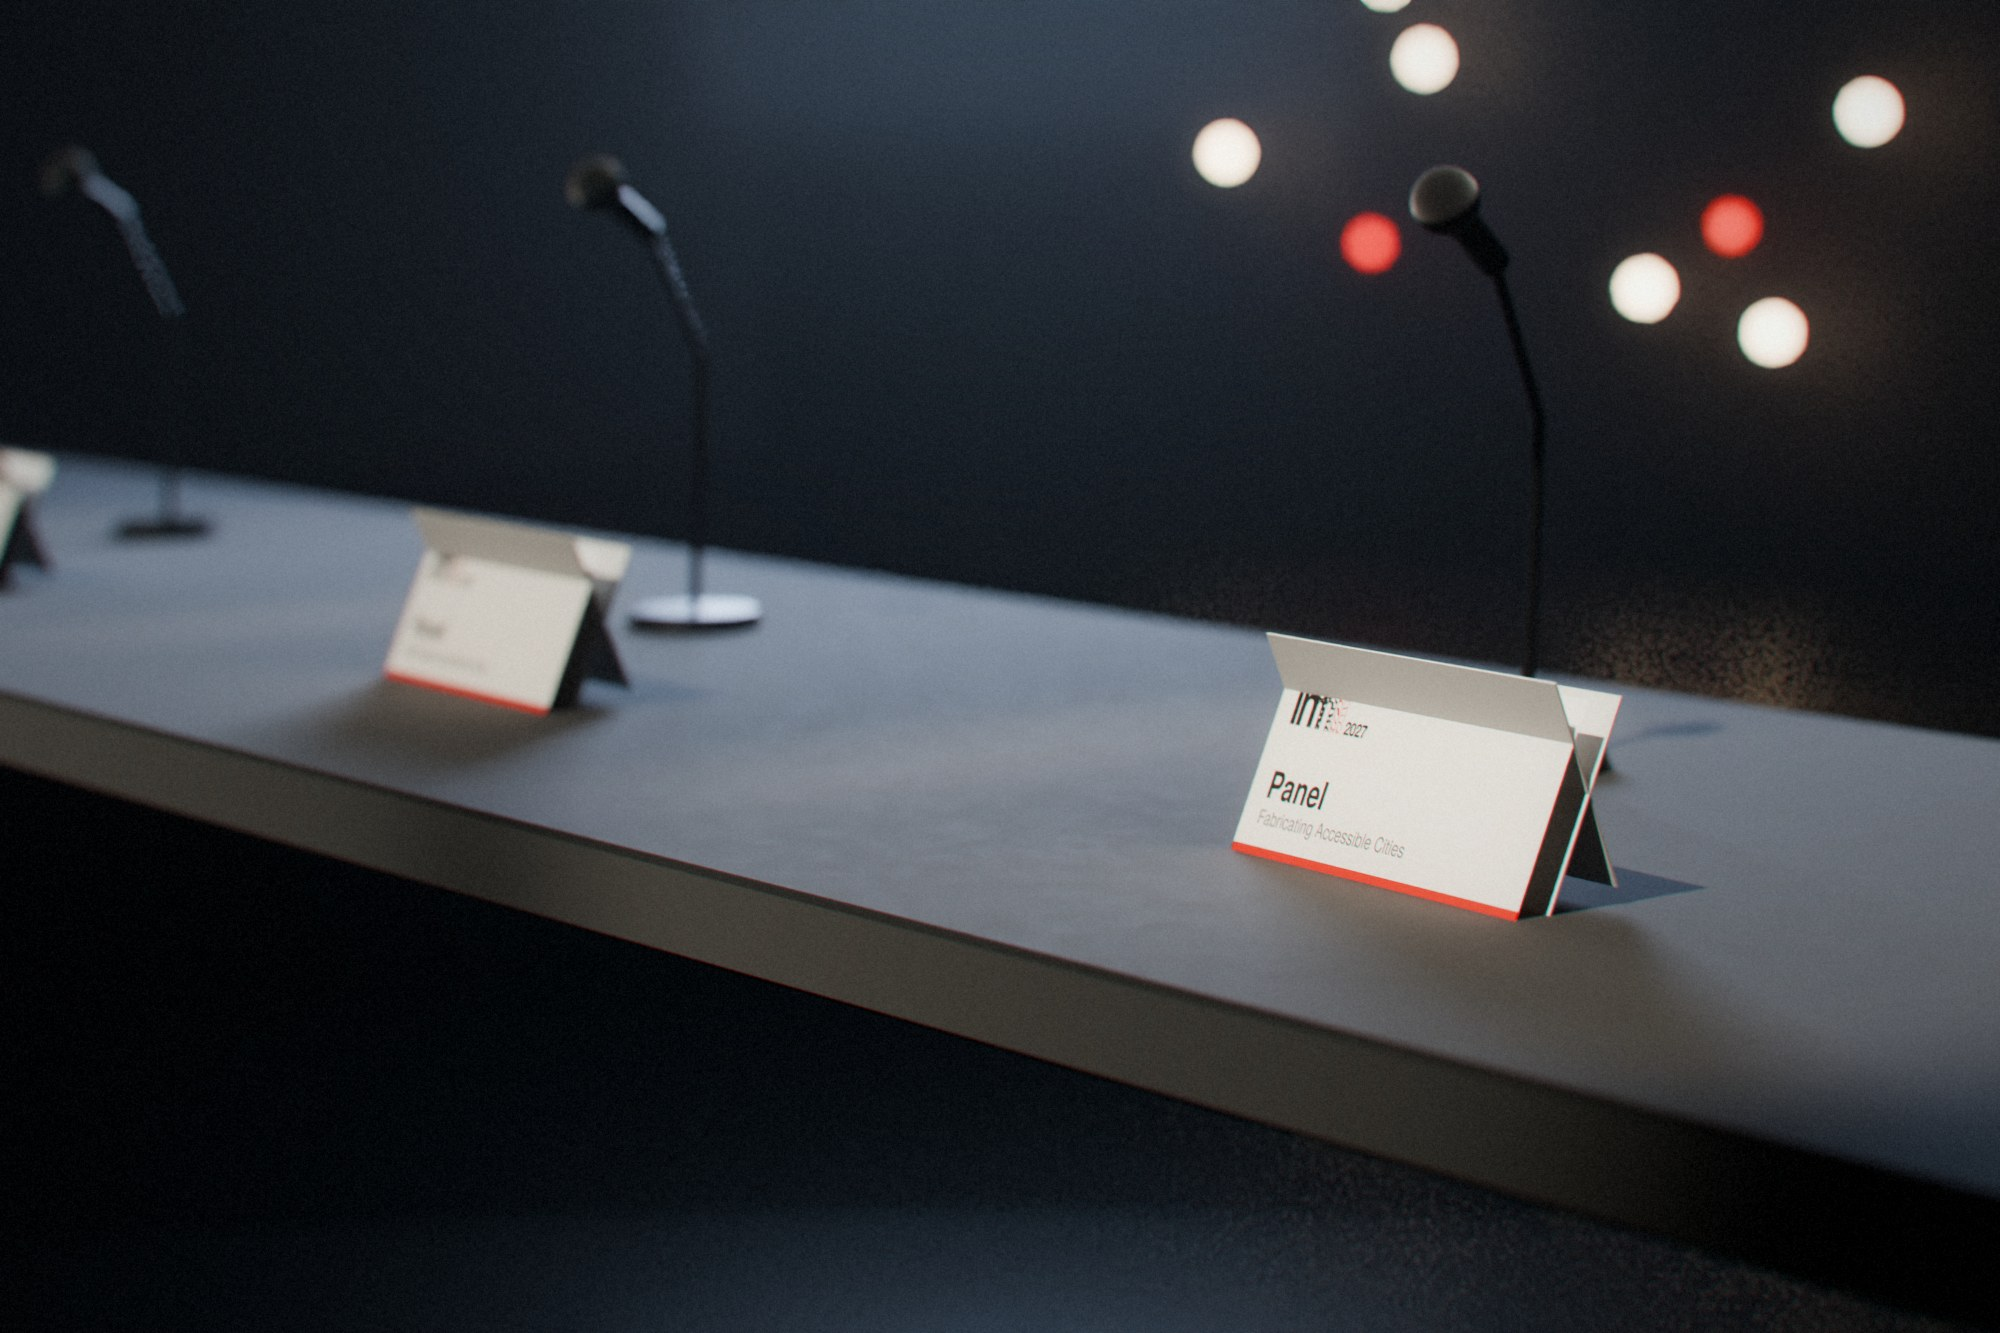
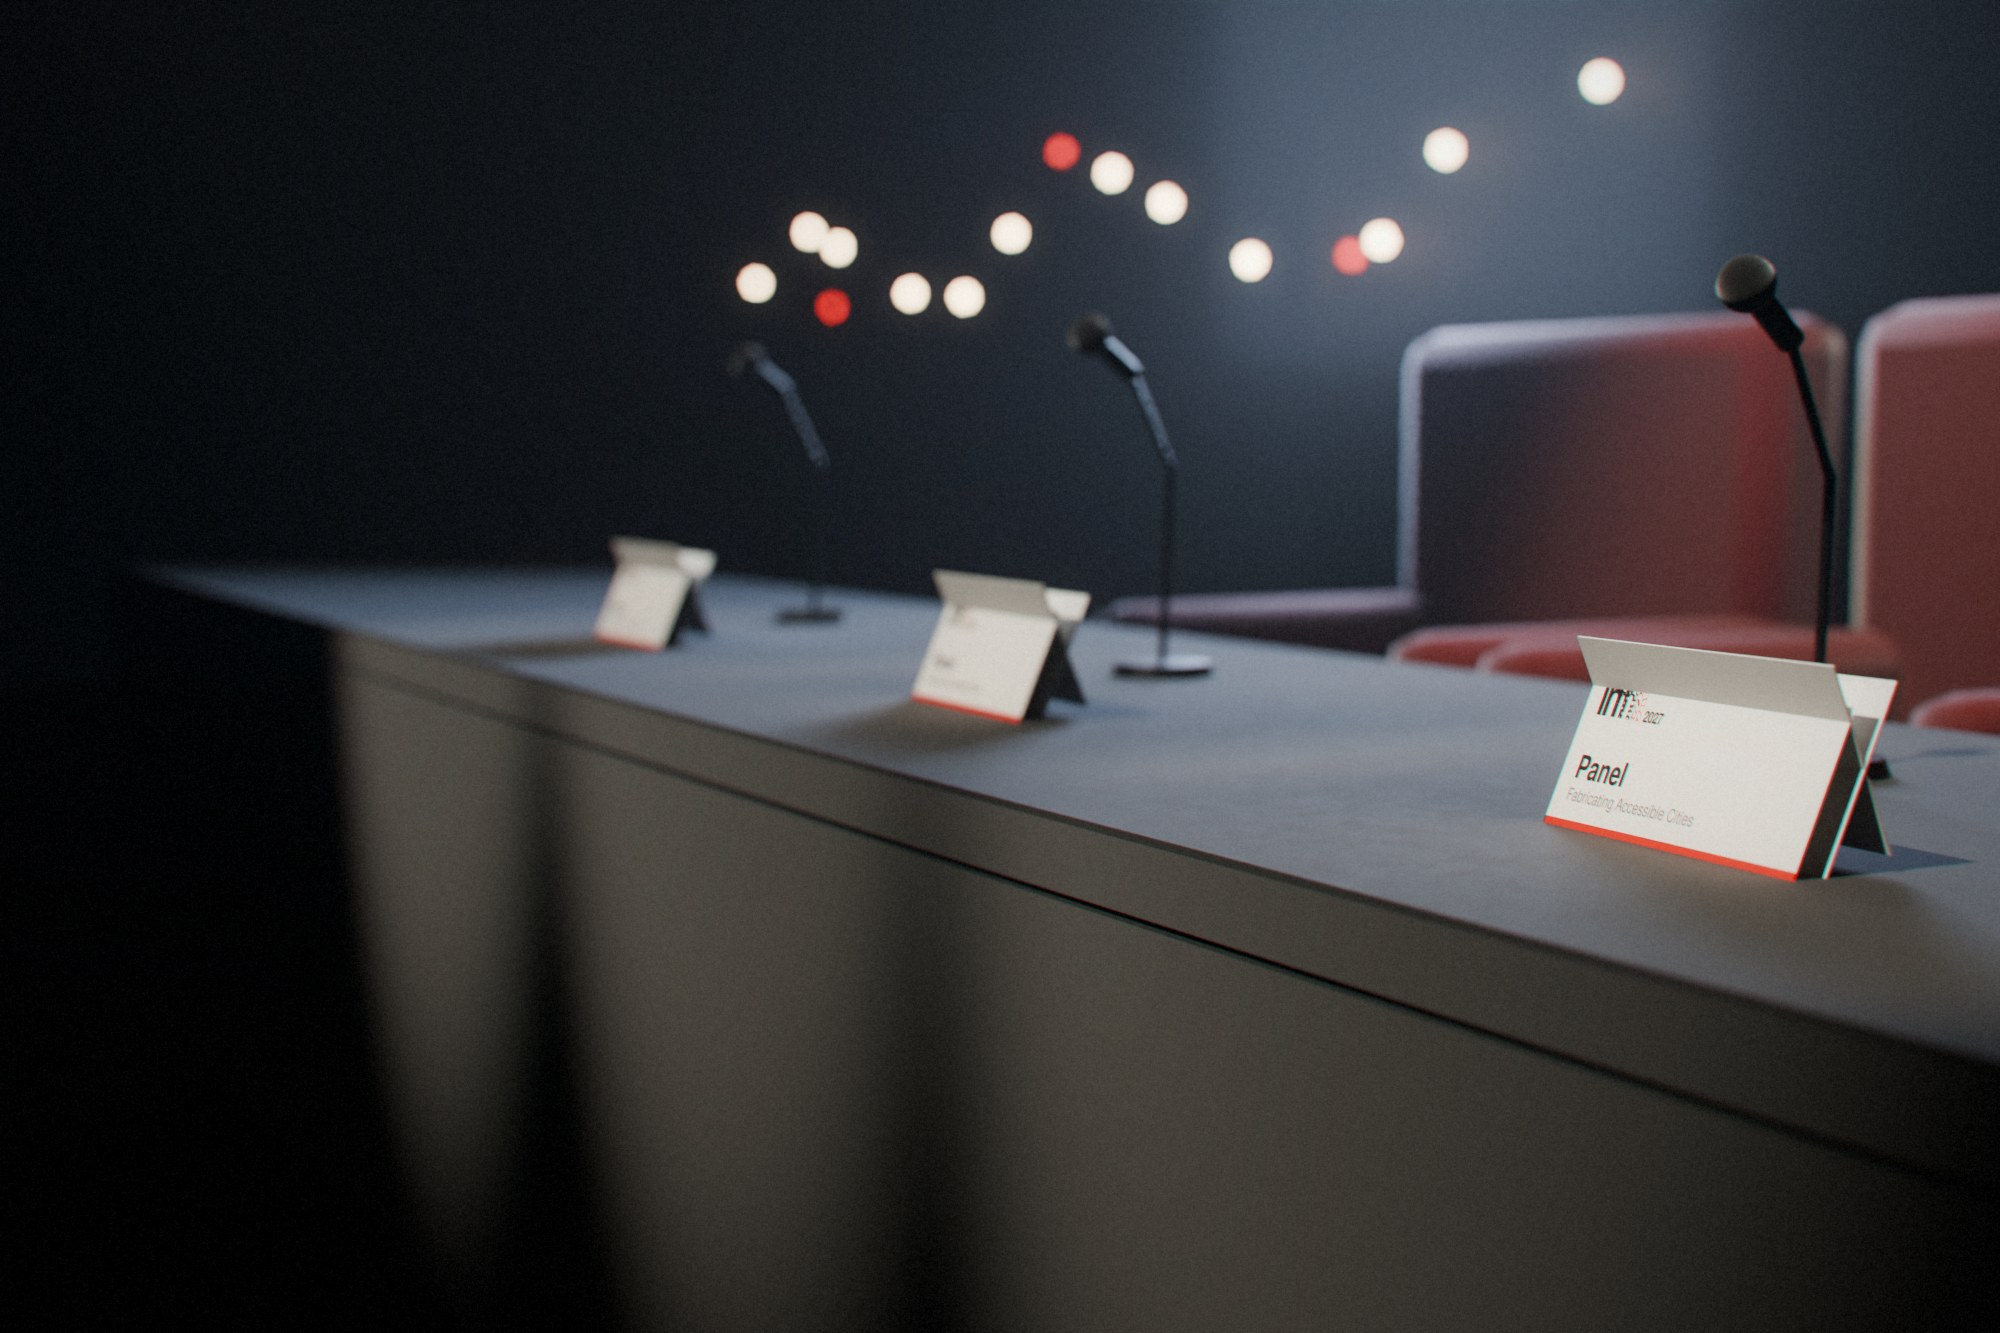
Publish the Infill 2027 site (v33)
Claude-Session: https://claude.ai/code/session_01TtEdReze6cwjqr1R4ALKDQ

diff --git a/index.html b/index.html
@@ -1025,6 +1025,11 @@ html { --lvh: 100vh; --svh: 100vh; --dvh: 100vh; }
 .rsp .rs-p + .rs-p { transform: translate3d(0, 115%, 0); box-shadow: 0 -30px 60px rgb(0 0 0 / .55); transition: transform .8s cubic-bezier(.22, .8, .2, 1); }
 .rsp .rs-p.up { transform: none; }
 .rsp .rs-p::after { transition: opacity .6s; }
+/* v33: the part of the two new role pictures that a stage shows */
+.rs-p:nth-child(1) .rs-ph { object-position: 100% 19%; }
+.rs-p:nth-child(2) .rs-ph { object-position: 100% 14%; }
+.ph.rsp .rs-p:nth-child(1) .rs-ph { object-position: 100% 82%; }
+.ph.rsp .rs-p:nth-child(2) .rs-ph { object-position: 100% 49%; }
 </style>
 </head>
 <body>
@@ -1281,7 +1286,7 @@ html { --lvh: 100vh; --svh: 100vh; --dvh: 100vh; }
       <div class="rs-tabs" role="group" aria-label="The four roles"><div><span>Four roles</span><button type="button"><b>1</b>Research talk</button><button type="button"><b>2</b>Panel</button><button type="button"><b>3</b>Judge</button><button type="button"><b>4</b>Academic committee</button></div></div>
       <div class="rs-stage">
       <article class="rs-p">
-        <img class="rs-ph" src="assets/img/roles/talk.jpg" alt="A speaker's timer shows 20:00 in red digits on a dark desk, with cue cards in front of it. Stage lights are out of focus behind." width="2000" height="1333" loading="lazy" decoding="async">
+        <img class="rs-ph" src="assets/img/roles/talk.jpg" alt="A lectern seen from where the speaker stands. A laptop on it shows a slide that reads Research talk, Stronger with less plastic. A microphone stands in front, a timer reads 20:00, and the audience sits in a dark hall under two spotlights." width="2000" height="1333" loading="lazy" decoding="async">
         <div class="rs-txt">
           <div class="rs-col">
             <p class="rs-n"><i class="rc-tag live">Live, on Convention Day</i></p>
@@ -1292,7 +1297,7 @@ html { --lvh: 100vh; --svh: 100vh; --dvh: 100vh; }
         </div>
       </article>
       <article class="rs-p">
-        <img class="rs-ph" src="assets/img/roles/panel.jpg" alt="A long table set for a panel, with table microphones and folded cards. The nearest card reads Panel, Fabricating Accessible Cities." width="2000" height="1333" loading="lazy" decoding="async">
+        <img class="rs-ph" src="assets/img/roles/panel.jpg" alt="A long table set for a panel of three. Each place has a microphone and a folded card that reads Panel, Fabricating Accessible Cities. Red armchairs stand behind the table and lamps are out of focus in the dark." width="2000" height="1333" loading="lazy" decoding="async">
         <div class="rs-txt">
           <div class="rs-col">
             <p class="rs-n"><i class="rc-tag live">Live, on Convention Day</i></p>
